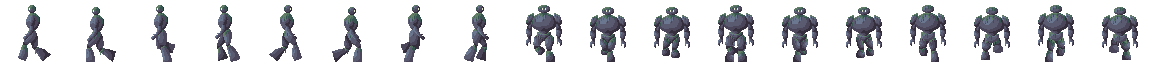
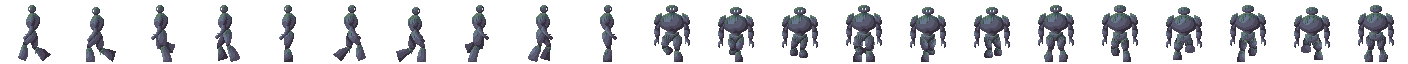
NewGeneration

diff --git a/Main/generation.py b/Main/generation.py
@@ -1,15 +1,17 @@
 import csv
 import Engine.Entity_Classes.floor as Floor
+import Engine.Entity_Classes.Wall as Wall
 
 class generateLandscape():
     """Liest eine CSV-Datei ein und erstellt eine 2D-Liste der Werte."""
-    def __init__(self, spritegroup):
-        filename = "Main/mapCSV.csv"
+    def __init__(self, spritegroup, entitygroup):
         """ Initialisiert die Klasse mit dem Dateinamen der CSV-Datei.
         param:\t filename (str) - Pfad zur CSV-Datei."""
 
-        self.map = self.readCSV(filename)
+        self.map = self.readCSV("Main/mapCSV.csv")
+        self.map_wall = self.readCSV("Main/mapCSVWall.csv")
         self.spritegroup = spritegroup
+        self.entitygroup = entitygroup
         
         self.elem = {
             0: "grass",
@@ -25,7 +27,8 @@ class generateLandscape():
             10: "wall"
         }
 
-        self.update_grass_tiles()
+        self.map = self.update_tiles(self.map)
+        self.map_wall = self.update_tiles(self.map_wall)
 
     def readCSV(self, filename):
         """Liest die CSV-Datei und erstellt die 2D-Liste der Werte.
@@ -38,46 +41,93 @@ class generateLandscape():
 
         return data
 
-    def update_grass_tiles(self):
+    def update_tiles(self, map):
         """Ersetzt die grass-Zellen basierend auf Nachbarzellen. MADE BY COPILOT"""
-        rows = len(self.map)
-        cols = len(self.map[0])
+        height = len(self.map) -4
+        width = len(self.map[0]) if height > 0 else 0  
 
-        # Kopie der Daten erstellen, damit wir nicht mitten im Update falsche Nachbarn sehen
-        new_map = [row[:] for row in self.map]
+        # Priorität: Je niedriger die Zahl, desto 'härter' der Übergang
+        # 5–8 sind Ecken, 1–4 Kanten
 
-        for i in range(rows):
-            for j in range(cols):
-                if self.map[i][j] == 0:  # grass
-                    # Nachbarn prüfen (mit Randprüfung)
-                    top = self.map[i-1][j] if i > 0 else None
-                    bottom = self.map[i+1][j] if i < rows-1 else None
-                    left = self.map[i][j-1] if j > 0 else None
-                    right = self.map[i][j+1] if j < cols-1 else None
 
-                    # Regeln für potsoile-Nachbarn
-                    if right == 9:
-                        new_map[i][j] = 2  # grass_r_potsoile
-                    if left == 9:
-                        new_map[i][j] = 1  # grass_l_potsoile
-                    if top == 9:
-                        new_map[i][j] = 3  # grass_t_potsoile
-                    if bottom == 9:
-                        new_map[i][j] = 4  # grass_b_potsoile
+        # Bewegungsrichtungen für Nachbarn
+        transitions = [
+            (1, 0),    # unten
+            (0, 1),    # rechts
+            (-1, 0),   # oben
+            (0, -1),   # links
+            (1, 1),    # unten-rechts
+            (-1, -1),  # oben-links
+            (1, -1),   # unten-links
+            (-1, 1)    # oben-rechts
+        ]
 
-                    # Ecken prüfen (Beispiel: oben links)
-                    if top == 9 and left == 9:
-                        new_map[i][j] = 5  # grass_tl_potsoile
-                    if top == 9 and right == 9:
-                        new_map[i][j] = 6  # grass_tr_potsoile
-                    if bottom == 9 and left == 9:
-                        new_map[i][j] = 7  # grass_bl_potsoile
-                    if bottom == 9 and right == 9:
-                        new_map[i][j] = 8  # grass_br_potsoile
+        transitions_dict = {
+            (1, 0): "t",
+            (0, 1): "l",
+            (-1, 0): "b",
+            (0, -1): "r",
+            (1, 1): "tl",
+            (-1, -1): "br",
+            (1, -1): "tr",
+            (-1, 1): "bl"
+        }
 
-        self.map = new_map
-        
-    def generateElements(self):
+     
+
+        # Neue Map erstellen
+        new_map = [row[:] for row in map]
+
+        print(new_map)
+                                
+        for y in range(height): 
+            for x in range(width): 
+                if map[y][x] == 2 or map[y][x] == 3: 
+                    for (dy, dx) in transitions: 
+                        ny, nx = y + dy, x + dx 
+                        if 0 <= ny < height and 0 <= nx < width :
+                            if map[ny][nx] == 0: 
+                                if map[y][x] == 2:
+                                    new_map[ny][nx] = "F"
+                                if map[y][x] == 3:
+                                    print("WWWWWWWWWWWWWWWW")
+                                    new_map[ny][nx] = "W"
+
+
+        print(new_map)
+
+
+        for y in range(height):
+            for x in range(width):
+                if new_map[y][x] == "F" or new_map[y][x] == "W":
+                    for (dy, dx), mark in transitions_dict.items():
+                        ny, nx = y + dy, x + dx
+                        if 0 <= ny < height and 0 <= nx < width:
+                            if new_map[ny][nx] == 2 or new_map[ny][nx] == 3:
+                                if new_map[y][x] == "F":
+                                    new_map[y][x] = "F" + mark
+                                if new_map[y][x] == "W":
+                                    new_map[y][x] = "W" + mark
+
+        print(new_map)
+
+
+
+
+        for y in range(height):
+            for x in range(width):
+                if new_map[y][x] == "w":
+                    for (dy, dx), mark in transitions_dict.items():
+                        ny, nx = y + dy, x + dx
+                        if 0 <= ny < height and 0 <= nx < width:
+                            if new_map[ny][nx] == 3:
+                                new_map[y][x] = "3" + mark
+
+
+        map = new_map
+        return map
+
+    def generateGrass(self):
             self.horizontal_segment_counter = -1
             self.vertical_segment_counter = -1
             for row in self.map:
@@ -85,26 +135,57 @@ class generateLandscape():
                 self.vertical_segment_counter += 1
                 for elem in row:
                     self.horizontal_segment_counter += 1
-                    if elem == 0:
-                        self.spritegroup.add(Floor.Grass(self.horizontal_segment_counter * 64, self.vertical_segment_counter * 64, base_sprite=0))
-                    if elem == 1:
-                        self.spritegroup.add(Floor.Grass(self.horizontal_segment_counter * 64, self.vertical_segment_counter * 64, base_sprite=1, flip=True))
                     if elem == 2:
                         self.spritegroup.add(Floor.Grass(self.horizontal_segment_counter * 64, self.vertical_segment_counter * 64, base_sprite=1))
-                    if elem == 3:
-                        self.spritegroup.add(Floor.Grass(self.horizontal_segment_counter * 64, self.vertical_segment_counter * 64, base_sprite=4))
-                    if elem == 4:
-                        self.spritegroup.add(Floor.Grass(self.horizontal_segment_counter * 64, self.vertical_segment_counter * 64, base_sprite=4, flip=True))
-                    if elem == 5:
+                    if elem == "Ft":
+                        self.spritegroup.add(Floor.Grass(self.horizontal_segment_counter * 64, self.vertical_segment_counter * 64, base_sprite=2,))
+                    if elem == "Fb":
+                        self.spritegroup.add(Floor.Grass(self.horizontal_segment_counter * 64, self.vertical_segment_counter * 64, base_sprite=2, flip=(False, True)))
+                    if elem == "Fr":
+                        self.spritegroup.add(Floor.Grass(self.horizontal_segment_counter * 64, self.vertical_segment_counter * 64, base_sprite=0,))
+                    if elem == "Fl":
+                        self.spritegroup.add(Floor.Grass(self.horizontal_segment_counter * 64, self.vertical_segment_counter * 64, base_sprite=0, flip=(True, False)))
+                    if elem == "Ftr":
                         self.spritegroup.add(Floor.Grass(self.horizontal_segment_counter * 64, self.vertical_segment_counter * 64, base_sprite=3))
-                    if elem == 6:
-                        self.spritegroup.add(Floor.Grass(self.horizontal_segment_counter * 64, self.vertical_segment_counter * 64, base_sprite=3, flip=True))
-                    if elem == 7:
-                        self.spritegroup.add(Floor.Grass(self.horizontal_segment_counter * 64, self.vertical_segment_counter * 64, base_sprite=2, flip=True))
-                    if elem == 8:
-                        self.spritegroup.add(Floor.Grass(self.horizontal_segment_counter * 64, self.vertical_segment_counter * 64, base_sprite=2))
-                    if elem == 9:
-                        print(f"Erstelle Wand an Position ({self.horizontal_segment_counter * 64}, {self.vertical_segment_counter * 64})")
+                    if elem == "Ftl":
+                        self.spritegroup.add(Floor.Grass(self.horizontal_segment_counter * 64, self.vertical_segment_counter * 64, base_sprite=3, flip=(True, False)))
+                    if elem == "Fbr":
+                        self.spritegroup.add(Floor.Grass(self.horizontal_segment_counter * 64, self.vertical_segment_counter * 64, base_sprite=4, flip = (True, False)))
+                    if elem == "Fbl":
+                        self.spritegroup.add(Floor.Grass(self.horizontal_segment_counter * 64, self.vertical_segment_counter * 64, base_sprite=4))
+                    if elem == 0:
+                        self.spritegroup.add(Floor.Grass(self.horizontal_segment_counter * 64, self.vertical_segment_counter * 64, base_sprite=5))
             
 
             return self.spritegroup
+    
+    def generateWall(self):
+            self.horizontal_segment_counter = -1
+            self.vertical_segment_counter = -1
+            for row in self.map_wall:
+                self.horizontal_segment_counter = -1
+                self.vertical_segment_counter += 1
+                for elem in row:
+                    self.horizontal_segment_counter += 1
+                    if elem == 3:
+                        print("WALL")
+                        self.entitygroup.add(Wall.Wall(self.horizontal_segment_counter * 64, self.vertical_segment_counter * 64, base_sprite=0))
+                    if elem == "Wt":
+                        self.entitygroup.add(Wall.Wall(self.horizontal_segment_counter * 64, self.vertical_segment_counter * 64, base_sprite=6))
+                    if elem == "Wb":
+                        self.entitygroup.add(Wall.Wall(self.horizontal_segment_counter * 64, self.vertical_segment_counter * 64, base_sprite=6, flip = (False, True)))
+                    if elem == "Wr":
+                        self.entitygroup.add(Wall.Wall(self.horizontal_segment_counter * 64, self.vertical_segment_counter * 64, base_sprite=1))
+                    if elem == "Wl":
+                        self.entitygroup.add(Wall.Wall(self.horizontal_segment_counter * 64, self.vertical_segment_counter * 64, base_sprite=2))
+                    if elem == "Wtr":
+                        self.entitygroup.add(Wall.Wall(self.horizontal_segment_counter * 64, self.vertical_segment_counter * 64, base_sprite=3))
+                    if elem == "Wtl":
+                        self.entitygroup.add(Wall.Wall(self.horizontal_segment_counter * 64, self.vertical_segment_counter * 64, base_sprite=4))
+                    if elem == "Wbr":
+                        self.entitygroup.add(Wall.Wall(self.horizontal_segment_counter * 64, self.vertical_segment_counter * 64, base_sprite=3, flip=(False, True)))
+                    if elem == "Wbl":
+                        self.entitygroup.add(Wall.Wall(self.horizontal_segment_counter * 64, self.vertical_segment_counter * 64, base_sprite=4, flip = (False, True)))
+            
+
+            return self.entitygroup

diff --git a/Engine/entities.py b/Engine/entities.py
@@ -18,12 +18,9 @@ class Entity(pygame.sprite.Sprite):
         self.pos_x = pos_x
         self.pos_y = pos_y
         self.ani_animations = ani_animations
-        print(ani_frames_count)
-
 
         if is_spritesheet:
             self.Animation = sprite_sheet.SpriteSheetAnimation(source, rect, ani_frames_count, ani_animations, base_sprite)
-            print("This is: ", base_sprite, self.pos_x, self.pos_y)
             self.image = self.Animation.frames[base_sprite]
         else:
             self.Animation = sprite_sheet.SpriteSheet(source)
@@ -85,14 +82,15 @@ class EntityMovable(Entity):
 
             if self.dx == 0 and self.dy == 0 and self.last_animation != (None, False):
                 self.last_animation = (None, self.flip)
-                self.Animation.stop_animation(self.Animation.current_range[0])
+                print(self.Animation.current_range)
+                self.Animation.stop_animation(self.Animation.current_range[1]+1)
                 self.image = self.Animation.image
                 if self.flip:
                     self.image = pygame.transform.flip(self.image, True, False)
                 self.animation_name = None
             else:
                 if self.last_animation != (self.animation_name, self.flip):
-                    self.Animation.stop_animation(self.Animation.current_range[0])
+                    self.Animation.stop_animation(self.Animation.current_range[1]+1)
                     self.Animation.start_animation(self.animation_name)
                     self.last_animation = (self.animation_name, self.flip)
             self.image = self.Animation.image

diff --git a/Engine/Entity_Classes/floor.py b/Engine/Entity_Classes/floor.py
@@ -6,18 +6,18 @@ class Floor(entities.Entity):
         super().__init__(pos_x, pos_y, rect, rect_attach, scale, source, solid, is_spritesheet, fix, base_sprite, ani_frames_count, ani_animations)
 
 class Grass(Floor):
-    def __init__(self, pos_x, pos_y, rect = pygame.Rect(0, 0, 64, 64), rect_attach = "topleft", scale = (64, 64), source = r"Engine\Entity_Classes\Sprites_Entity_Classes\Floor.png", solid = False, is_spritesheet = True, fix = False, base_sprite=0, ani_frames_count=5, ani_animations={}, flip = False):
+    def __init__(self, pos_x, pos_y, rect = pygame.Rect(0, 0, 64, 64), rect_attach = "topleft", scale = (64, 64), source = r"Engine\Entity_Classes\Sprites_Entity_Classes\Floor.png", solid = False, is_spritesheet = True, fix = False, base_sprite=0, ani_frames_count=5, ani_animations={}, flip = (False, False)):
         self.base_sprite = base_sprite
         
-        super().__init__(pos_x, pos_y, rect, rect_attach, scale, source, solid, is_spritesheet, fix, base_sprite, 5, ani_animations)
+        super().__init__(pos_x, pos_y, rect, rect_attach, scale, source, solid, is_spritesheet, fix, base_sprite, 6, ani_animations)
 
         
 
         if not hasattr(self, "image") or self.image is None:
             print("WARNUNG: Kein Bild für Grass!")
 
-        if flip:
-            self.image = pygame.transform.flip(self.image, True, False)
+        if flip is not (False, False):
+            self.image = pygame.transform.flip(self.image, flip[0], flip[1])
 
     def update(self, dx = 0, dy = 0, keys = []):
         super().update(dx, dy, keys)

diff --git a/main.py b/main.py
@@ -22,7 +22,7 @@ floor_group = pygame.sprite.Group()
 moving_entities_group = pygame.sprite.Group()
 playerGroup = pygame.sprite.GroupSingle()
 
-Player = player.Player(settings.SCREEN_WIDTH//2, settings.SCREEN_HEIGHT//2, pygame.Rect(0, 0, 64, 64), "midbottom", (64, 64), r"Player\player.png",True, True, True, 0, 17, {"walking_a": [0, 3, 5, True], "walking_d": [4, 7, 5, True], "walking_s": [8, 13, 5, True], "walking_w": [14, 16, 5, True]})
+Player = player.Player(settings.SCREEN_WIDTH//2, settings.SCREEN_HEIGHT//2, pygame.Rect(0, 0, 64, 64), "midbottom", (64, 64), r"Player\player.png",True, True, True, 0, 21, {"walking_a": [0, 3, 5, True], "walking_d": [5, 8, 5, True], "walking_s": [10, 15, 5, True], "walking_w": [17, 19, 5, True]})
 
 
 
@@ -44,8 +44,9 @@ while running:
     screen.fill((255, 255, 255))
 
     if start_generation:
-        Map = generation.generateLandscape(floor_group)
-        Map.generateElements()
+        Map = generation.generateLandscape(floor_group, entities_group)
+        Map.generateGrass()
+        Map.generateWall()
         start_generation = False
 
     for event in pygame.event.get():

diff --git a/Engine/Entity_Classes/Wall.py b/Engine/Entity_Classes/Wall.py
@@ -1,0 +1,9 @@
+import Engine.entities as entities
+import pygame
+
+class Wall(entities.Entity):
+    def __init__(self, pos_x, pos_y, rect = pygame.Rect(0,0,64,64), rect_attach = "topleft", scale = (64, 64), source = r"Engine\Entity_Classes\Sprites_Entity_Classes\Wall.png", solid = False, is_spritesheet = True, fix = False, base_sprite=0, ani_frames_count=7, ani_animations={}, flip = (False, False)):
+        super().__init__(pos_x, pos_y, rect, rect_attach, scale, source, solid, is_spritesheet, fix, base_sprite, ani_frames_count, ani_animations)
+
+        if flip is not (False, False):
+            self.image = pygame.transform.flip(self.image, flip[0], flip[1])

diff --git a/Engine/sprite_sheet.py b/Engine/sprite_sheet.py
@@ -53,8 +53,6 @@ class SpriteSheetAnimation(SpriteSheet):
         self.current_frame = 0
         self.current_range = [0,0,0,True]
 
-        print(frames_dict, filename)
-
         if filename not in frames_dict:
             print("new Animation", image_count)
             self.frames = self.load_sprites(rect, image_count)
